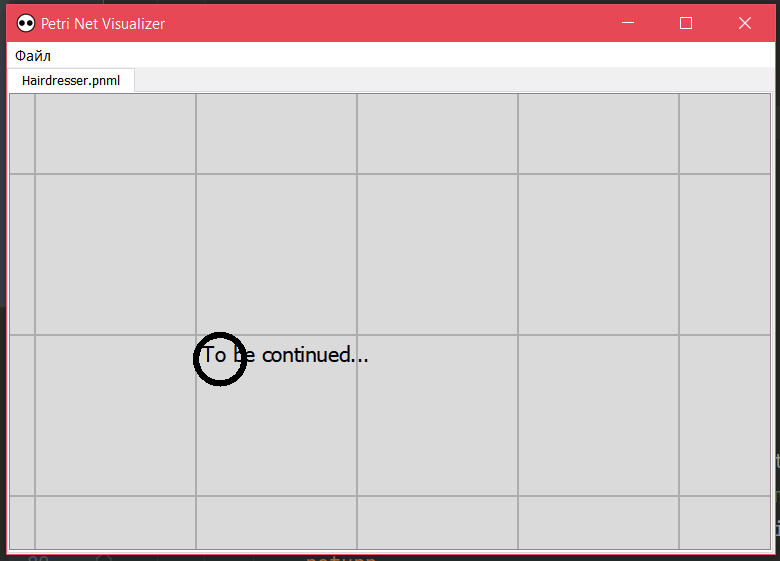
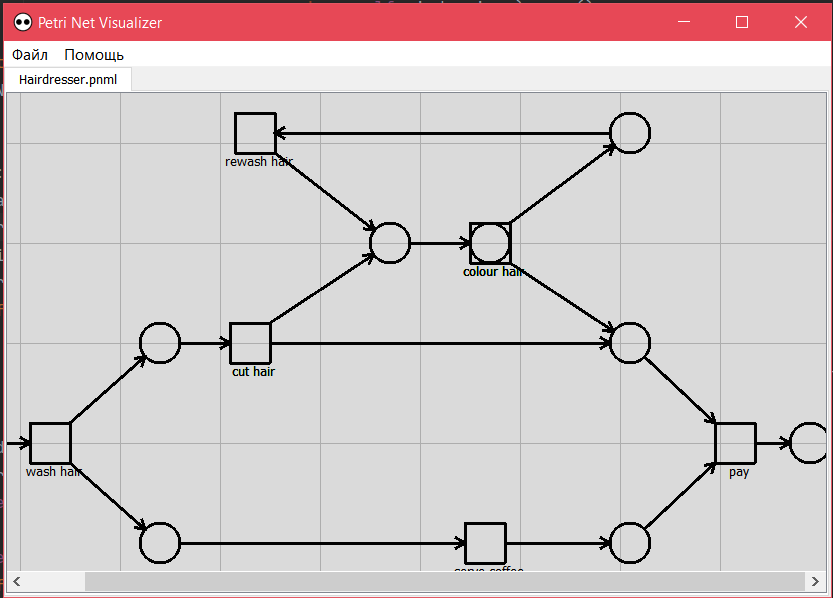
+ Version offset + Better github1

diff --git a/main.py b/main.py
@@ -6,7 +6,7 @@ import sys
 import os
 from utils.PNVUtils import PNVMessageBoxes, PNVDrawer, PNVViewer
 
-CURRENT_VERSION = 1.1
+CURRENT_VERSION = 1.15
 
 
 class GraphData:

diff --git a/README.md b/README.md
@@ -1,6 +1,7 @@
 # Petri Net Visualizer
 HSE SE 2nd Course Project
 # About program
-Current version: 1.1
+Can view *.pnml files, containing layout information
+Current version: 1.15
 ![image](github_data/preview.png)
 ![image](github_data/preview0.png)
